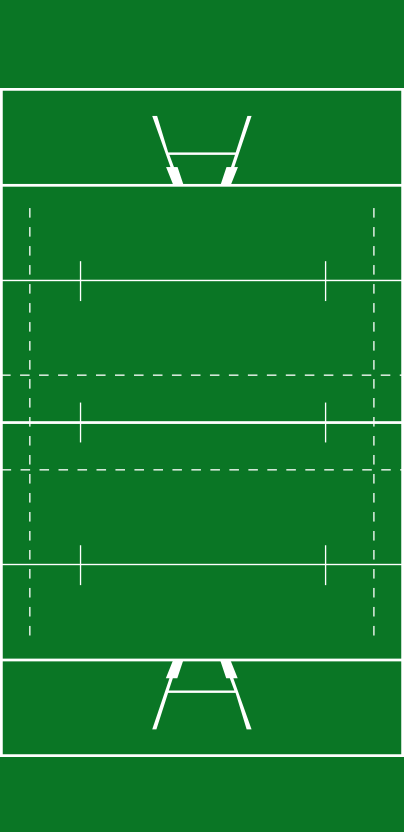
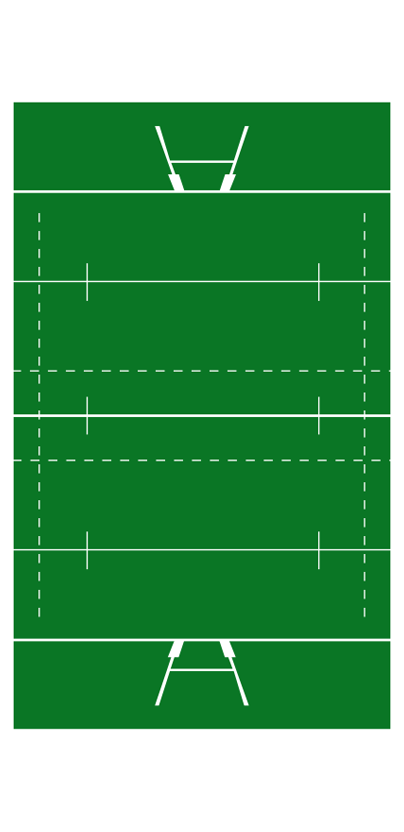
LIONS-1243

diff --git a/js/components/matchCenter/Component/StadiumFigure/StadiumFigure.js b/js/components/matchCenter/Component/StadiumFigure/StadiumFigure.js
@@ -6,17 +6,21 @@ import {Image, View, Text, ActivityIndicator, ScrollView} from 'react-native'
 import { styleSheetCreate } from '../../../../themes/lions-stylesheet'
 import stadiumImage from './stadium.png'
 import Triangle from '../../../../components/global/Triangle'
+import styleVar from '../../../../themes/variable'
 const styles = styleSheetCreate({
   container: {
     flex: 1,
     width: 202,
     height: 416,
-    backgroundColor: '#fff'
+    backgroundColor: '#fff',
+
   },
   image: {
     width:202,
     height:416,
-    resizeMode: 'stretch'
+    resizeMode: 'stretch',
+    borderWidth:1,
+    borderColor:styleVar.colorGrey2
   }
 })
 class StadiumFigure extends Component {
@@ -26,11 +30,11 @@ class StadiumFigure extends Component {
     }
   }
   countPoint = (point,extraHeight,imageWith) => {
-
-    let newX = point.x *imageWith /50
+    let extraWidth = imageWith*0.04
+    let newX = point.x *(imageWith-extraWidth*2) /50
     let newY = point.y *(416-extraHeight*2) /100
     let newPoint = {
-      x : newX,
+      x : newX+extraWidth,
       y :newY+extraHeight
     }
     return newPoint
@@ -40,7 +44,8 @@ class StadiumFigure extends Component {
   render() {
     let {redPoints, blackPoints, orangePoints, bluePoints ,titles,imageWith} = this.props
     let pointWidth = 14
-    let extraHeight = 90
+    let extraHeight = 98
+
     return (
       <View style={[styles.container,{width:imageWith}]} >
         <Image style={[styles.image,{width:imageWith}]} source={stadiumImage} >
